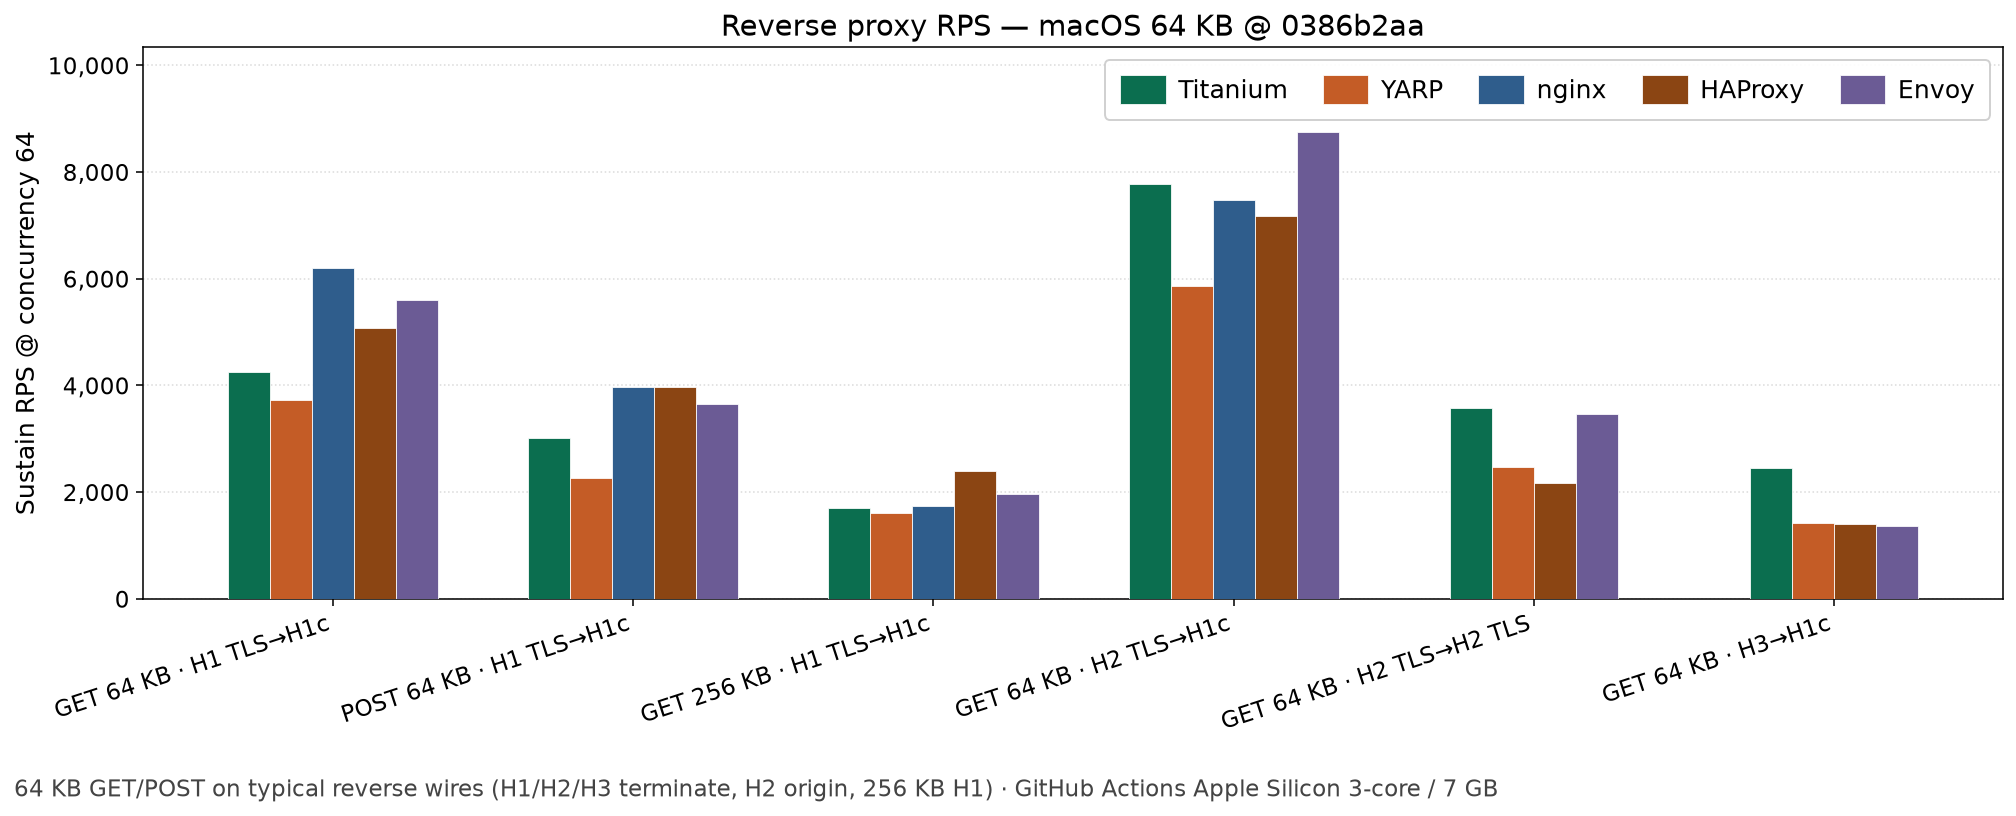
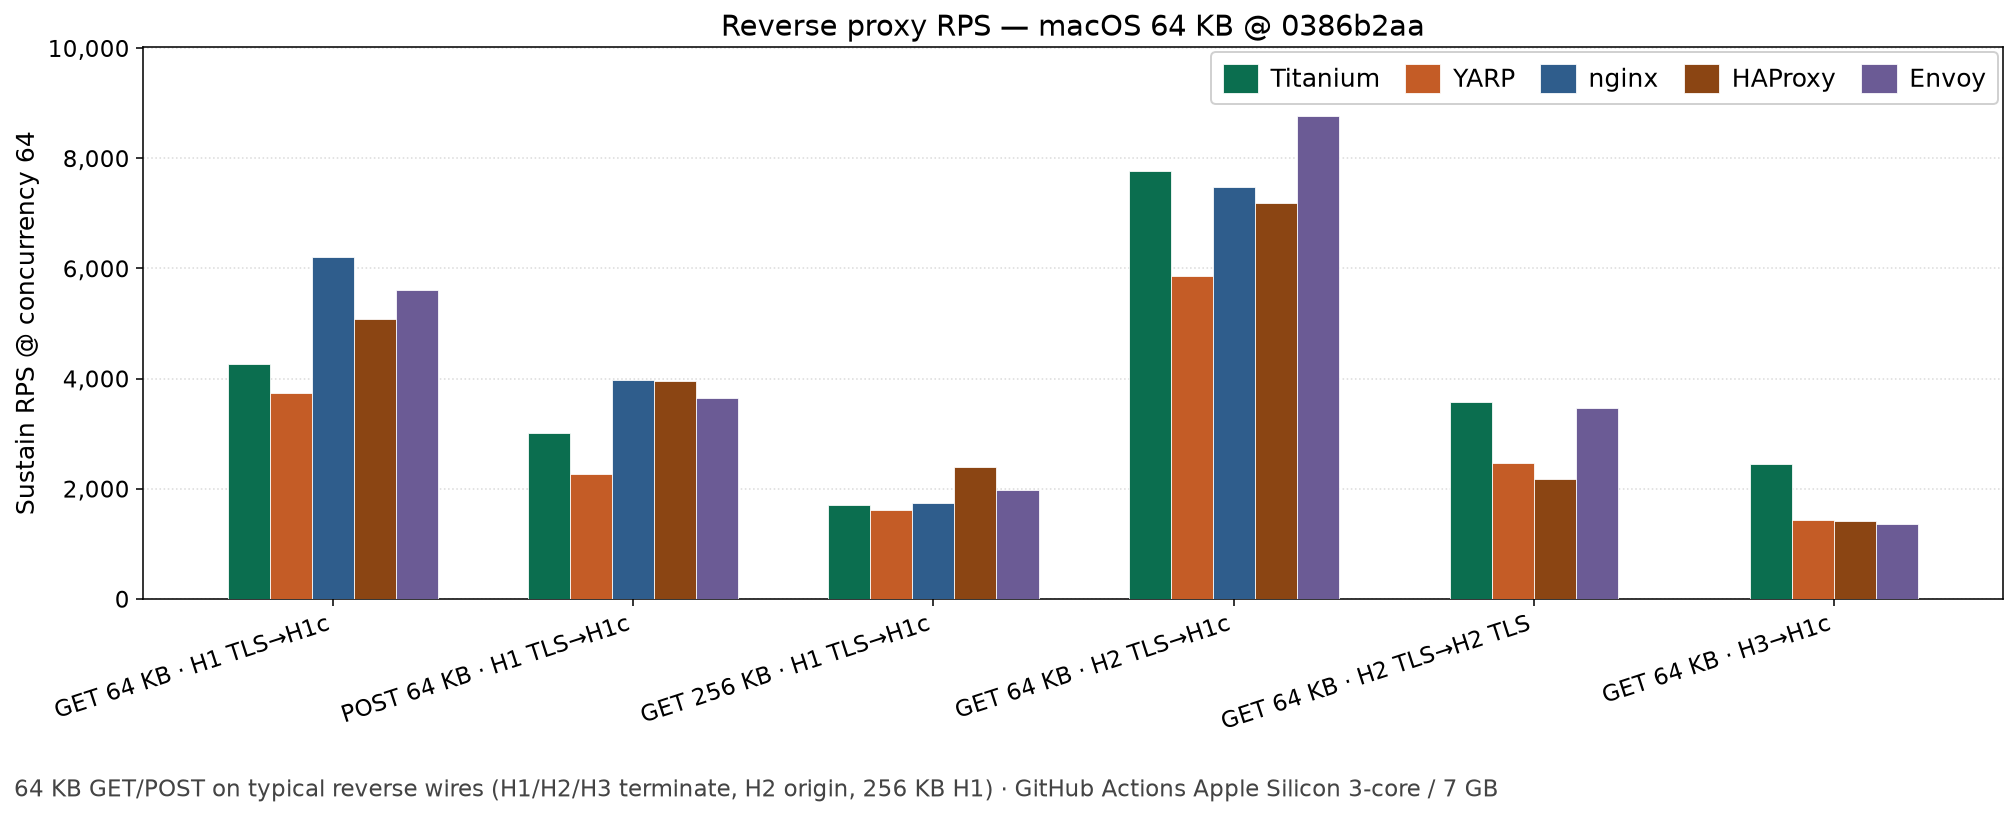
Drop the Linux practical chart another 20k once the legend clears the tall bar.
The same clearance also lowers the macOS tiny chart from 100k to 80k.

diff --git a/tools/RpsLoadProbe/render-practical-charts.py b/tools/RpsLoadProbe/render-practical-charts.py
@@ -666,7 +666,7 @@ def plot_packed_product_bars(
 
 
 # One-row product legend in upper-right. This first limit is conservative;
-# render_chart then drops one major y tick when the real legend box still clears.
+# render_chart then drops major y ticks while the real legend box still clears.
 _LEGEND_HEIGHT_FRAC = 0.24
 _LEGEND_CLEARANCE_FRAC = 0.06
 _LEGEND_RIGHT_CLUSTERS = 5
@@ -733,12 +733,13 @@ def _tallest_bar(ax) -> float:
     return tallest
 
 
-def lower_top_tick_one_step(fig, ax) -> None:
+def lower_top_tick_one_step(fig, ax) -> bool:
     """Drop the highest y tick one step when bars still clear the legend and the frame.
 
-    The first ylim often rounds up to an extra grid line. Use the next-lower
-    labeled tick when the legend still has ``_LEGEND_GAP_PX`` of room and the
-    tallest bar keeps ``_TOP_HEADROOM_FRAC`` under the axis top.
+    Returns True when the axis max changed. The first ylim often rounds up to an
+    extra grid line. Use the next-lower labeled tick when the legend still has
+    ``_LEGEND_GAP_PX`` of room and the tallest bar keeps ``_TOP_HEADROOM_FRAC``
+    under the axis top.
     """
     from matplotlib.ticker import AutoLocator, MultipleLocator
 
@@ -746,7 +747,7 @@ def lower_top_tick_one_step(fig, ax) -> None:
     original = ax.get_ylim()[1]
     ticks = [t for t in ax.get_yticks() if t > 1 and t <= original + 1e-6]
     if len(ticks) < 2:
-        return
+        return False
     top = ticks[-1]
     step = top - ticks[-2]
     target = top - step
@@ -772,10 +773,10 @@ def lower_top_tick_one_step(fig, ax) -> None:
         floor = max(floor, tallest / (1.0 - _TOP_HEADROOM_FRAC))
     if floor >= hi or gap_at(hi) < _LEGEND_GAP_PX:
         restore()
-        return
+        return False
     if gap_at(floor) >= _LEGEND_GAP_PX:
         ax.set_ylim(0, floor)
-        return
+        return True
 
     lo = floor
     best = hi
@@ -786,6 +787,7 @@ def lower_top_tick_one_step(fig, ax) -> None:
         else:
             lo = mid
     ax.set_ylim(0, best)
+    return True
 
 
 def arm_sustain_c64(csv_path: Path, arm: str) -> Optional[float]:
@@ -1045,12 +1047,13 @@ def render_chart(
         framealpha=0.92,
         ncols=5,
         fontsize=13,
-        handlelength=1.8,
+        handlelength=1.4,
         handleheight=1.4,
-        borderpad=0.6,
+        borderpad=0.45,
         labelspacing=0.45,
-        columnspacing=1.4,
+        columnspacing=1.0,
         handletextpad=0.5,
+        borderaxespad=0.2,
     )
     ax.set_axisbelow(True)
     fig.text(
@@ -1061,7 +1064,10 @@ def render_chart(
         color="#444444",
     )
     fig.tight_layout(rect=(0, 0.06, 1, 1))
-    lower_top_tick_one_step(fig, ax)
+    # Keep dropping a grid step while the legend and the top spine still clear.
+    for _ in range(4):
+        if not lower_top_tick_one_step(fig, ax):
+            break
     out_path.parent.mkdir(parents=True, exist_ok=True)
     fig.savefig(out_path, bbox_inches="tight")
     plt.close(fig)
